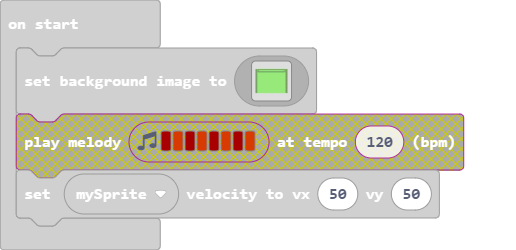
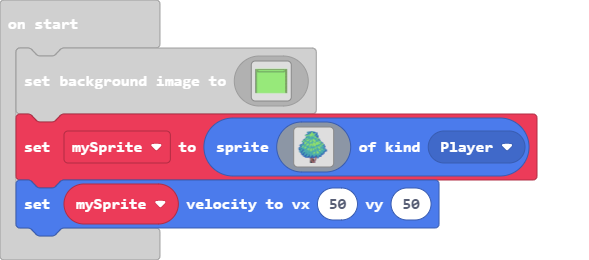
Added tree sprite

diff --git a/main.ts b/main.ts
@@ -1,4 +1,3 @@
-let mySprite: Sprite = null
 scene.setBackgroundImage(img`
     7777777777777777777777777777777777777777777777777777777777777777777777777777777777777777777777777777777777777777777777777777777777777777777777777777777777777777
     7777777777777777777777777777777777777777777777777777777777777777777777777777777777777777777777777777777777777777777777777777777777777777777777777777777777777777
@@ -121,4 +120,47 @@ scene.setBackgroundImage(img`
[1 lines of base64/hex data omitted]
     7777777777777777777777777777777777777777777777777777777777777777777777777777777777777777777777777777777777777777777777777777777777777777777777777777777777777777
     `)
+let mySprite = sprites.create(img`
+    ................86..................
+    ...........6688867886...............
+    ...........8666877688868............
+    ............868777767768............
+    .........688667777776688............
+    ........67767777777778666...........
+    .........6776667767666868...........
+    ..........866667667677688...........
+    .........8666666666667778...........
+    ........667766666666666676..........
+    .......67766667666776667776.........
+    ......886667776676777666688.........
+    .....67766777667767777666768........
+    ....6776666666777667776666776.......
+    .....8667776667766676677776776......
+    ......8777666666667776777776688.....
+    ....6887766776677677777777776776....
+    ..8866666677767777777777766666778...
+    .86666666777667767777766666776668...
+    ..88677666666777677677666667776668..
+    ..86776677666666666666667776666668..
+    886666677766667666666776677766668...
+    6668666676667766767767766677666668..
+    88866666666777677677667666666776668.
+    .86668866666766776776666667766666668
+    .86688666666666776666667667776666688
+    .668866666666666666666677666666688..
+    ..8866686666666666677667776666668...
+    ...866886666666666677667776666668...
+    ...86886668666666667666666666888....
+    ....88866886686666666666666668......
+    ......86886668666866668666868.......
+    ......88866688668866688866888.......
+    ........8888888688888ce868..........
+    ..............e88e88.ec.8...........
+    ...............eeee..e..............
+    ...............ceef.ce..............
+    ...............ceefcec..............
+    ...............feefce...............
+    ...............fceeec...............
+    ...............ffceec...............
+    `, SpriteKind.Player)
 mySprite.setVelocity(50, 50)
